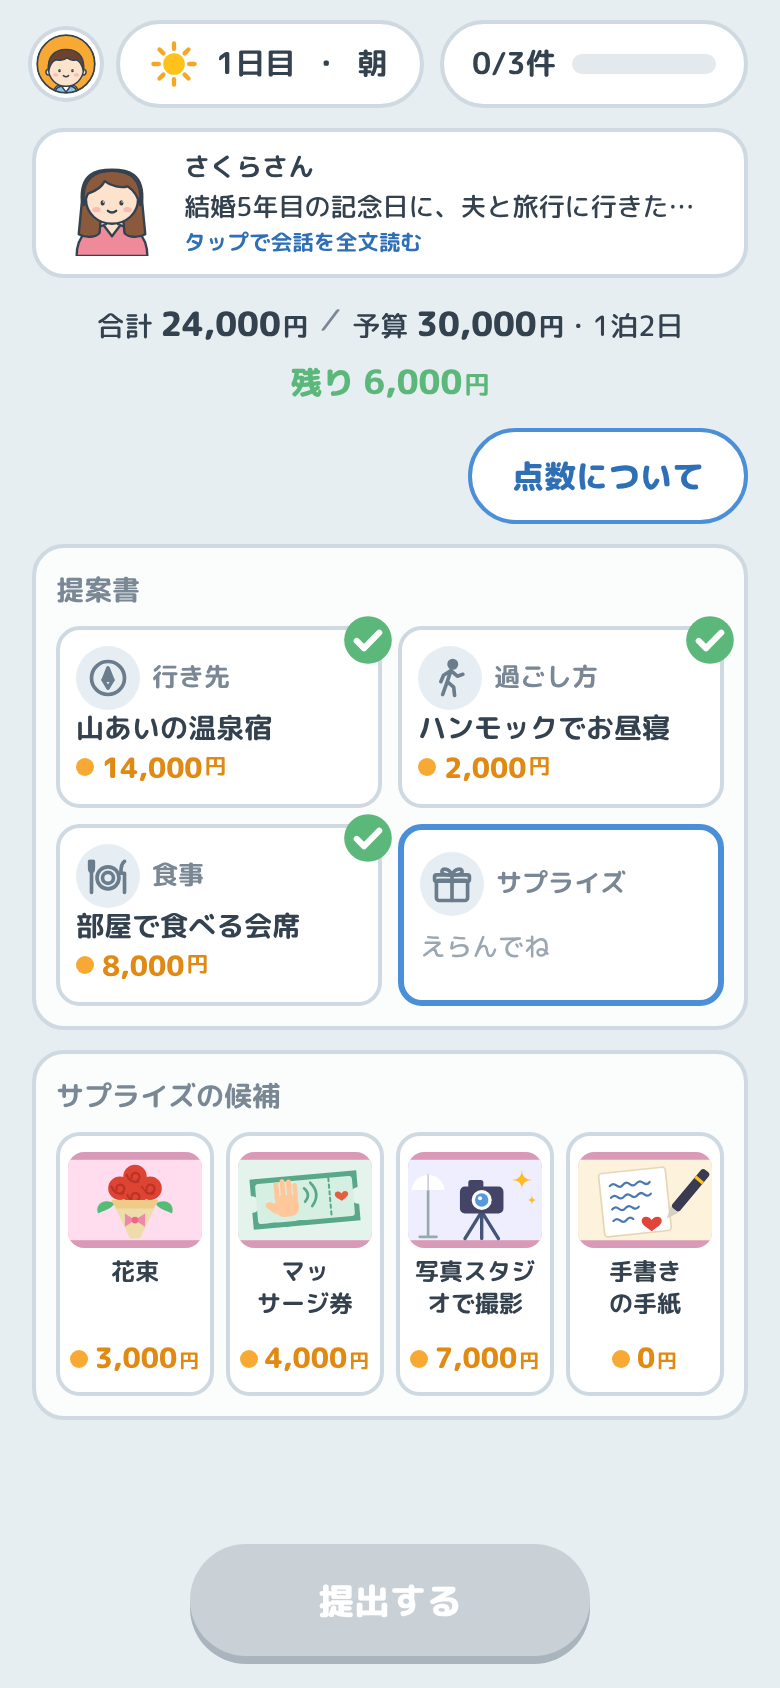
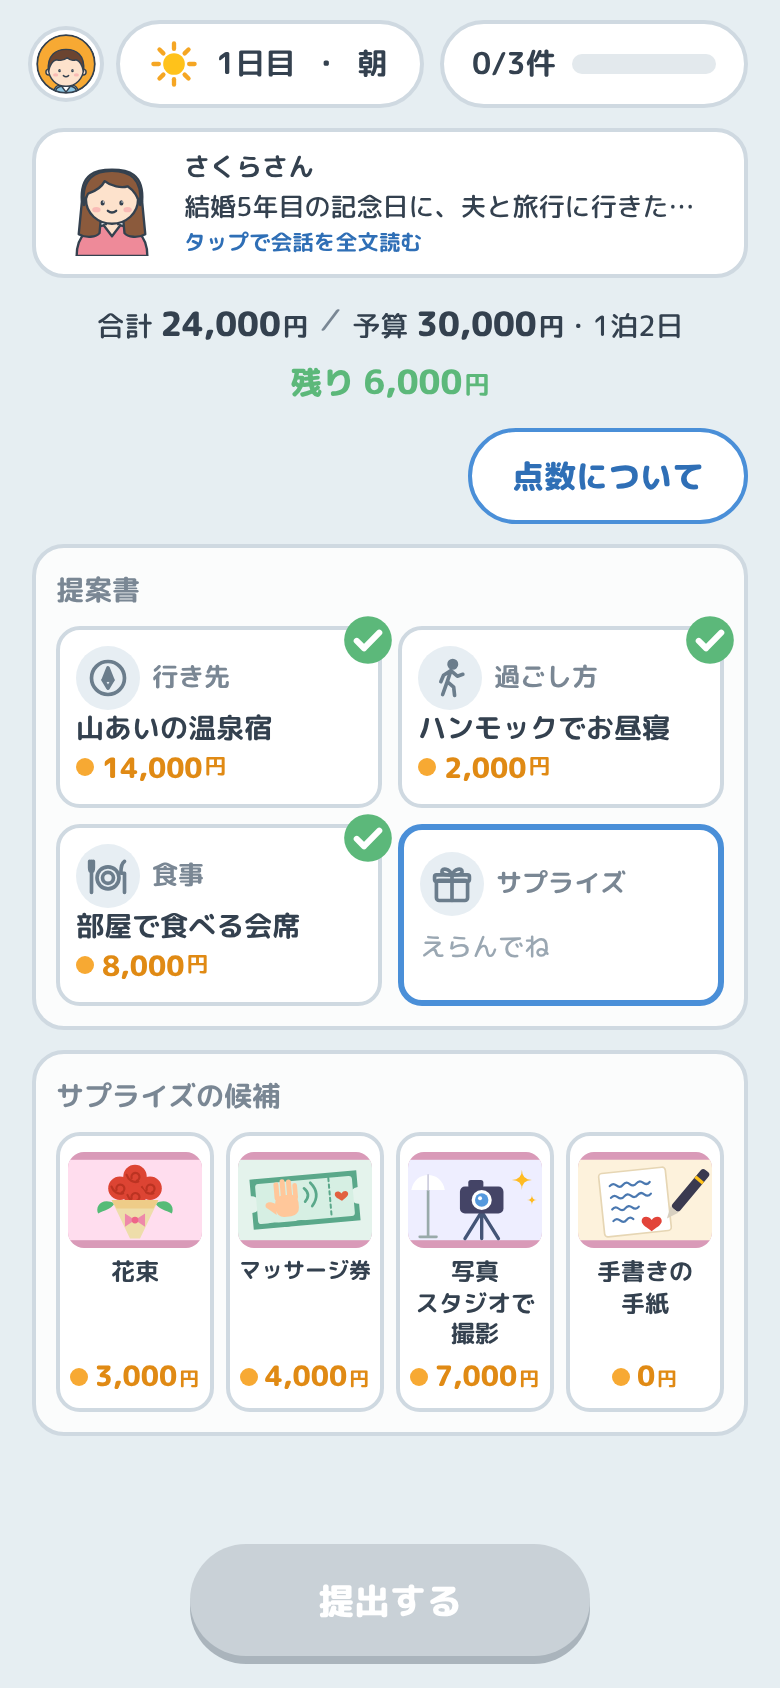
Add files via upload

Changed region(s): [[0.0615, 0.7393, 0.7385, 0.8626], [0.7385, 0.7393, 0.9231, 0.8626]]

diff --git a/lukumo-site/games/yorozu-teian/js/game.js b/lukumo-site/games/yorozu-teian/js/game.js
@@ -452,12 +452,22 @@
     const full = SLOTS.every(s => state.picks[s]);
     $("submit").disabled = !full;
     fitCardNames();
+    // 画面を開いた直後は大きさがまだ決まっていないことがあるので、描き終わったあとにもう一度合わせる
+    requestAnimationFrame(fitCardNames);
     if (tutorialNow()) coach(proposalStep(full));
   }
   // 候補カードの名前。会場の広さ「（〜10人）」は切らずに、名前の下の1行にまとめる（名前と広さが途中で分かれないように）
+  // カードの名前：言葉の途中では折り返さない（「自己紹介すご／ろく」を出さない。持ち主の指示 2026-11-17）
+  //   折り返してよい場所（「の・で…」のあと、カタカナとの境目）は js/name-breaks.js で決め、<wbr> で示す。ほかは word-break: keep-all で折り返さない
+  const NB = window.YorozuNameBreaks;
+  const esc = s => String(s).replace(/[&<>"]/g, ch => ({ "&": "&amp;", "<": "&lt;", ">": "&gt;", '"': "&quot;" }[ch]));
+  function breakable(text) {
+    const parts = NB ? NB.breakParts(text) : [text];
+    return `<span class="nb">${parts.map(esc).join("<wbr>")}</span>`;
+  }
   function cardNameHtml(name) {
     const m = name.match(/^(.*?)(（〜[^）]*）)$/);
-    return m ? `<span class="nm">${m[1]}</span><span class="cap">${m[2]}</span>` : name;
+    return m ? `<span class="nm">${breakable(m[1])}</span><span class="cap">${esc(m[2])}</span>` : breakable(name);
   }
   // 1文字だけが次の行に残る折り返し（例「似顔絵の名／札」）を直す：まず行の長さをそろえ（text-wrap: balance）、
   // それでも残るときだけ文字を少し小さくする（最小10px）。カードの幅は画面で変わるので、描いたあとに測る
@@ -476,11 +486,25 @@
   function fitCardNames() {
     document.querySelectorAll("#cards .card-name, #slots .slot-card").forEach(el => {
       const box = el.querySelector(".nm") || el;
-      el.style.fontSize = ""; box.style.textWrap = "";
+      el.style.fontSize = ""; box.style.textWrap = ""; el.classList.remove("nb-loose");
+      // 言葉の途中で折り返さないので、折り返せる場所のない長い名前は幅からはみ出すことがある → 文字を少し小さくして収める（最小10px）
+      const over = () => el.scrollWidth > el.clientWidth + 1;
+      let f = parseFloat(getComputedStyle(el).fontSize);
+      while (over() && f > 10) { f -= 0.5; el.style.fontSize = f + "px"; }
+      // それでも入らないときは、予備の折り返し場所（文字の種類の境目）も使う（例「自己紹介／すごろく」）
+      const nbEl = el.querySelector(".nb");
+      //   それでも入らなければ、もう一段の予備（言葉の切れ目ならどこでも。例「ゲーム／センター」）
+      for (const level of [1, 2]) {
+        if (!(over() && nbEl && NB)) break;
+        nbEl.innerHTML = NB.breakParts(nbEl.textContent, level).map(esc).join("<wbr>");
+        el.style.fontSize = ""; f = parseFloat(getComputedStyle(el).fontSize);
+        while (over() && f > 10) { f -= 0.5; el.style.fontSize = f + "px"; }
+      }
+      // それでも入らないとき（ふつうは起きない）だけ、言葉の途中でも折り返す
+      if (over()) el.classList.add("nb-loose");
       const orphan = () => { const n = lineLengths(box); return n.length > 1 && n.some(x => x === 1); };
       if (!orphan()) return;
       box.style.textWrap = "balance";
-      let f = parseFloat(getComputedStyle(el).fontSize);
       while (orphan() && f > 10) { f -= 0.5; el.style.fontSize = f + "px"; }
     });
     // 値段の単位（つゆのしずく など）がカードの幅に入りきらないときは、単位の文字だけ少し小さくする（最小8.5px。それでも入らなければ「…」）
@@ -490,6 +514,18 @@
       const r = document.createRange(); r.selectNodeContents(u);
       const over = () => r.getBoundingClientRect().width > u.getBoundingClientRect().width + 0.1;
       while (over() && f > 8.5) { f -= 0.5; u.style.fontSize = f + "px"; }
+    });
+    // 値段の全体（●・数字・単位）がカードの幅からはみ出すとき（幅の狭いスマホで「1,000円」の「円」が切れるなど）は、数字を少し小さくする（最小11px）
+    document.querySelectorAll("#cards .card .cost, #slots .slot .cost").forEach(c => {
+      const num = c.querySelector(".num"); if (!num) return;
+      num.style.fontSize = ""; c.classList.remove("tight");
+      const box = c.closest(".card, .slot"), money = c.querySelector(".money") || c;
+      const unit = c.querySelector(".unit");
+      const out = () => { const b = box.getBoundingClientRect(), m = money.getBoundingClientRect(); return m.right > b.right - 3 || m.left < b.left + 3 || money.scrollWidth > money.clientWidth + 1 || c.scrollWidth > c.clientWidth + 1 || (unit && unit.scrollWidth > unit.clientWidth + 0.5); };
+      let f = parseFloat(getComputedStyle(num).fontSize);
+      while (out() && f > 11) { f -= 0.5; num.style.fontSize = f + "px"; }
+      // それでも入らない（5けたの値段など）ときは、前の「●」の印を外して場所を空ける
+      if (out()) { c.classList.add("tight"); num.style.fontSize = ""; f = parseFloat(getComputedStyle(num).fontSize); while (out() && f > 10) { f -= 0.5; num.style.fontSize = f + "px"; } }
     });
   }
   function tutorialNow() { return state.tutorial && state.timeIdx === 0 && !state.tutorial.firstDone; }

diff --git a/lukumo-site/games/yorozu-teian/js/name-breaks.js b/lukumo-site/games/yorozu-teian/js/name-breaks.js
@@ -1,0 +1,70 @@
+// カードの名前の「折り返してよい場所」を決める（ゲーム本体の js/game.js から使う。確かめ用：node js/name-breaks.js で全部の名前の分け方を出す）
+// 決まり：
+//  1. 「の・で・と・や・を・に・へ・な・から・まで」のあと（前の言葉が2文字以上、または漢字・カタカナで終わるとき。名前の最初と最後は除く）
+//  2. カタカナとそれ以外の境目（両側とも2文字以上のとき）
+//  1文字だけのかたまりは作らない（前か後ろとつなげる）。「の・で…」の前では折り返さない（行の先頭に来ないように）。ほかの場所（言葉の途中）でも折り返さない。折り返せないまま入らない名前は、文字を少し小さくして1行に収める
+(function (root) {
+  const PART = new Set(["の", "で", "と", "や", "を", "に", "へ", "な", "から", "まで"]);
+  const isKata = ch => /[ァ-ヿー]/.test(ch);
+  const isHira = s => /^[ぁ-ゖ]+$/.test(s);
+  // loose（true か 1）：最小の文字でも入らない名前のための予備。文字の種類（漢字・ひらがな・カタカナ）の境目（両側2文字以上）でも折り返してよい
+  //   例「自己紹介すごろく」→「自己紹介／すごろく」
+  const kind = ch => /[ァ-ヿー]/.test(ch) ? "k" : /[ぁ-ゖ]/.test(ch) ? "h" : /[一-龯々]/.test(ch) ? "c" : "o";
+  function breakParts(name, loose) {
+    let seg;
+    try { seg = [...new Intl.Segmenter("ja", { granularity: "word" }).segment(name)].map(x => x.segment); } catch (e) { return [name]; }
+    const cut = new Set(); // 文字の位置（この位置の前で折り返してよい）
+    const partStart = new Set(); // 「の・で…」が始まる位置（この前では折り返さない。行の先頭に「の」などが来ないように）
+    const segEdge = new Set(); // 言葉の切れ目（予備の折り返し場所は、ここと重なるときだけ）
+    let pos = 0;
+    seg.forEach((g, i) => {
+      if (i > 0) segEdge.add(pos);
+      const end = pos + [...g].length;
+      if (PART.has(g) && i > 0) partStart.add(pos);
+      if (PART.has(g) && i > 0 && i < seg.length - 1) {
+        const prev = seg[i - 1];
+        if ([...prev].length >= 2 || !isHira(prev)) cut.add(end);
+      }
+      pos = end;
+    });
+    const chars = [...name];
+    // カタカナとそれ以外の境目（両側とも2文字以上続くとき）
+    for (let k = 2; k <= chars.length - 2; k++) {
+      if (isKata(chars[k - 1]) !== isKata(chars[k])) {
+        const runL = (() => { let n = 0; for (let j = k - 1; j >= 0 && isKata(chars[j]) === isKata(chars[k - 1]); j--) n++; return n; })();
+        const runR = (() => { let n = 0; for (let j = k; j < chars.length && isKata(chars[j]) === isKata(chars[k]); j++) n++; return n; })();
+        if (runL >= 2 && runR >= 2) cut.add(k);
+      }
+    }
+    if (loose) for (let k = 2; k <= chars.length - 2; k++) {
+      const a1 = kind(chars[k - 1]), b1 = kind(chars[k]);
+      if (a1 === b1 || a1 === "o" || b1 === "o") continue;
+      if (kind(chars[k - 2]) !== a1 || kind(chars[k + 1]) !== b1) continue;
+      // 漢字のあとのひらがなは、3文字以上続くときだけ（「流行／り」のような送りがなで切らない）
+      //   「っ」をふくむひらがな（「泊／まった」のような動詞の形）でも切らない
+      if (a1 === "c" && b1 === "h") { let n = 0, sm = false; for (let j = k; j < chars.length && kind(chars[j]) === "h"; j++) { n++; if (chars[j] === "っ") sm = true; } if (n < 3 || sm) continue; }
+      if (segEdge.has(k)) cut.add(k);
+    }
+    // loose が 2：さらに、言葉の切れ目ならどこでも（「ゲーム／センター」「花火／大会」）。それでも入らない長い1語だけが、言葉の途中で折り返す
+    if (loose === 2) segEdge.forEach(k => cut.add(k));
+    partStart.forEach(k => cut.delete(k));
+    // 1文字だけのかたまり（例「…海辺の／宿」の「宿」）は前とつなげる。1文字だけが次の行に残らないように
+    const sorted = [...cut].sort((x, y) => x - y), edges = [0, ...sorted, chars.length];
+    for (let j = 1; j < edges.length; j++) if (edges[j] - edges[j - 1] === 1) cut.delete(edges[j] === chars.length ? edges[j - 1] : edges[j]);
+    const parts = []; let cur = "";
+    chars.forEach((ch, k) => { if (cut.has(k) && cur) { parts.push(cur); cur = ""; } cur += ch; });
+    parts.push(cur);
+    return parts;
+  }
+  const api = { breakParts };
+  if (typeof module !== "undefined" && module.exports) module.exports = api;
+  else root.YorozuNameBreaks = api;
+  if (typeof require !== "undefined" && require.main === module) {
+    const D = require("../data/requests.json");
+    const names = new Set();
+    for (const r of D.requests) for (const k in r.slots) for (const c of r.slots[k]) names.add(c.name.replace(/（〜[^）]*）$/, ""));
+    const long = [...names].filter(n => [...n].length > 6);
+    console.log(long.map(n => breakParts(n).join("／")).join("  "));
+    console.log("\n長い名前", long.length, "／折り返し場所なし", long.filter(n => breakParts(n).length === 1).length);
+  }
+})(typeof globalThis !== "undefined" ? globalThis : this);

diff --git a/lukumo-site/games/yorozu-teian/css/style.css b/lukumo-site/games/yorozu-teian/css/style.css
@@ -691,3 +691,50 @@ body.tut-lock::before { content: ""; position: fixed; inset: 0; z-index: 60; bac
   #screen-dress .col-b > .panel, #screen-deco .col-b > .panel { display: flex; flex-direction: column; min-height: 0; }
   #wear-list, #deco-list { flex: 1; min-height: 0; overflow-y: auto; padding: 3px; margin: -3px; }
 }
+
+/* ---- PCの提案書：左の列（依頼者・会話・予算）の文字と絵を大きく（持ち主の指示 2026-11-17：「文字が小さくて見えにくい」）
+   画面の高さに合わせて大きさを変える（高さ600pxでも縦にはみ出さない。tools/pc-fit.js で確認） ---- */
+@media (min-width: 900px) and (orientation: landscape) {
+  #screen-proposal .bubble.mini { gap: clamp(4px, 1.4dvh, 14px); padding: clamp(8px, 1.8dvh, 20px) clamp(14px, 2dvh, 22px); }
+  #screen-proposal .mini-face.has-art { width: clamp(60px, 15dvh, 150px); height: clamp(60px, 15dvh, 150px); }
+  #screen-proposal .mini-text { font-size: clamp(15px, 2.3dvh, 20px); }
+  #screen-proposal .mini-text b { font-size: clamp(16px, 2.6dvh, 22px); }
+  #screen-proposal .mini-text small { font-size: clamp(13px, 1.9dvh, 16px); }
+  #screen-proposal .mini-lines { font-size: clamp(15px, 2.4dvh, 21px); line-height: clamp(1.4, 0.2dvh + 1.35, 1.55); gap: clamp(2px, 0.8dvh, 8px); }
+  /* 右の列：提案書の4欄と候補カードも、高さに合わせて大きく（余白を残しすぎない） */
+  #screen-proposal .panel-title { font-size: clamp(14px, 2dvh, 18px); }
+  #screen-proposal .slots { gap: clamp(8px, 1.4dvh, 14px); }
+  #screen-proposal .slot { min-height: clamp(72px, calc(22dvh - 54px), 160px); padding: clamp(6px, 1.2dvh, 14px) clamp(8px, 1.2dvh, 14px); grid-template-columns: clamp(32px, 4.4dvh, 44px) 1fr; column-gap: clamp(6px, 1dvh, 10px); }
+  #screen-proposal .slot-icon { width: clamp(32px, 4.4dvh, 44px); height: clamp(32px, 4.4dvh, 44px); }
+  #screen-proposal .slot-name { font-size: clamp(13px, 1.9dvh, 17px); }
+  #screen-proposal .slot-card { font-size: clamp(14px, 2.3dvh, 20px); }
+  #screen-proposal .slot-empty { font-size: clamp(13px, 1.9dvh, 17px); }
+  #screen-proposal .cards { gap: clamp(6px, 1.2dvh, 12px); }
+  #screen-proposal .card { min-height: clamp(118px, calc(40dvh - 90px), 300px); padding: clamp(6px, 1dvh, 12px) clamp(4px, 0.8dvh, 10px); gap: clamp(4px, 0.8dvh, 8px); }
+  #screen-proposal .card-art { height: clamp(48px, calc(20dvh - 54px), 150px); }
+  #screen-proposal .card-name { font-size: clamp(12px, 2dvh, 18px); }
+  #screen-proposal .cost .num { font-size: clamp(14px, 2.1dvh, 19px); }
+  #screen-proposal .cost .unit { font-size: clamp(10px, 1.4dvh, 13px); }
+  #screen-proposal .budget { font-size: clamp(16px, 2.2dvh, 19px); padding: clamp(8px, 1.6dvh, 16px) clamp(14px, 2dvh, 20px); }
+  #screen-proposal .budget b { font-size: 1.2em; }
+  #screen-proposal .budget .left { font-size: clamp(20px, 3dvh, 26px); }
+}
+/* 大きなPC画面（幅1600px以上・高さ760px以上）：遊ぶ場所を広げ、上の帯の文字も少し大きく（余白ばかりで文字が小さい、を減らす） */
+@media (min-width: 1600px) and (min-height: 760px) and (orientation: landscape) {
+  .app { max-width: 1440px; }
+}
+@media (min-width: 900px) and (orientation: landscape) {
+  .pill { font-size: clamp(15px, 2.1dvh, 19px); }
+}
+/* カードの名前：言葉の途中では折り返さない。折り返してよい場所は <wbr>（js/name-breaks.js） */
+.card-name .nb, .slot-card .nb { word-break: keep-all; overflow-wrap: normal; }
+.card-name.nb-loose .nb, .slot-card.nb-loose .nb { word-break: normal; overflow-wrap: anywhere; }
+.card-name, .slot-card { overflow-wrap: normal; }
+.card-name.nb-loose, .slot-card.nb-loose { overflow-wrap: anywhere; }
+/* 名前の箱はカードの幅に合わせる（言葉の途中で折り返さないと、箱が文字に合わせて広がり、はみ出しを測れなくなるため） */
+.card-name { width: 100%; min-width: 0; }
+.slot-card { min-width: 0; max-width: 100%; }
+/* 「円」は1文字なので縮めたり切ったりしない（入らないときは数字のほうを小さくする：js/game.js fitCardNames） */
+.money.yen .unit { flex: none; overflow: visible; }
+/* 値段が狭いカードに入らないときは、前の「●」を外す（js/game.js fitCardNames） */
+.cost.tight .num::before, .cost.tight .money::before { display: none !important; }

diff --git a/lukumo-site/games/yorozu-teian/data/requests.js b/lukumo-site/games/yorozu-teian/data/requests.js
@@ -3824,7 +3824,7 @@ window.YOROZU_DATA = {
    "lines": [
     "料理教室を開いて、やっと1か月になるんです。",
     "その記念の会を、ホテルみたいに豪華に開きたくて。",
-    "でも生徒さんどうし、まだ名前も知らないみたいなの。",
+    "でも生徒さん同士、まだ名前も知らないみたいなの。",
     "生徒6人とわたし、手伝いの妹で8人。予算は3万円です。"
    ],
    "surfaceWish": "豪華",
@@ -3841,7 +3841,7 @@ window.YOROZU_DATA = {
    "aftermath": {
     "great": "生徒さんたち、帰りには名前で呼び合ってたんです！",
     "ok": "豪華で楽しかったけど、みんな少し緊張してたみたい。",
-    "poor": "ごちそうは素敵でした。…でも本当は、生徒さんどうしで話してほしかったんです"
+    "poor": "ごちそうは素敵でした。…でも本当は、生徒さん同士で話してほしかったんです"
    },
    "slots": {
     "destination": [

diff --git a/lukumo-site/games/yorozu-teian/index.html b/lukumo-site/games/yorozu-teian/index.html
@@ -367,6 +367,7 @@
   <script src="js/schedule.js"></script>
   <script src="js/rewards.js"></script>
   <script src="js/rank.js"></script>
+  <script src="js/name-breaks.js"></script>
   <script src="data/items.js"></script>
   <script src="data/requests.js"></script>
   <script src="js/game.js"></script>
